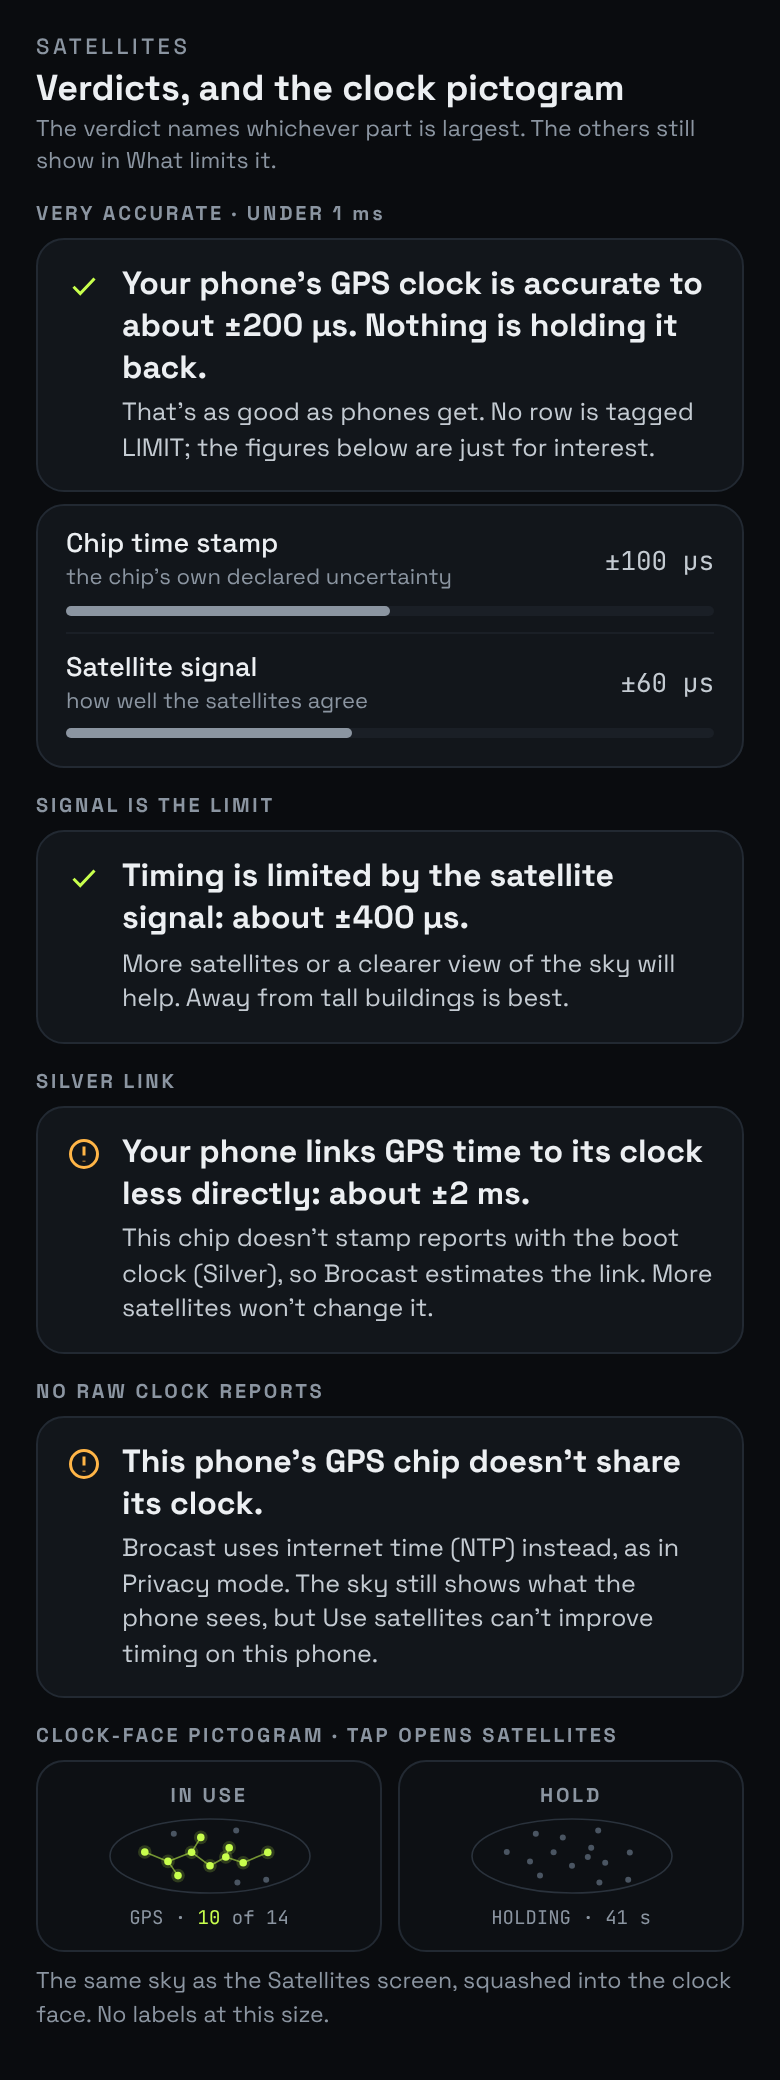
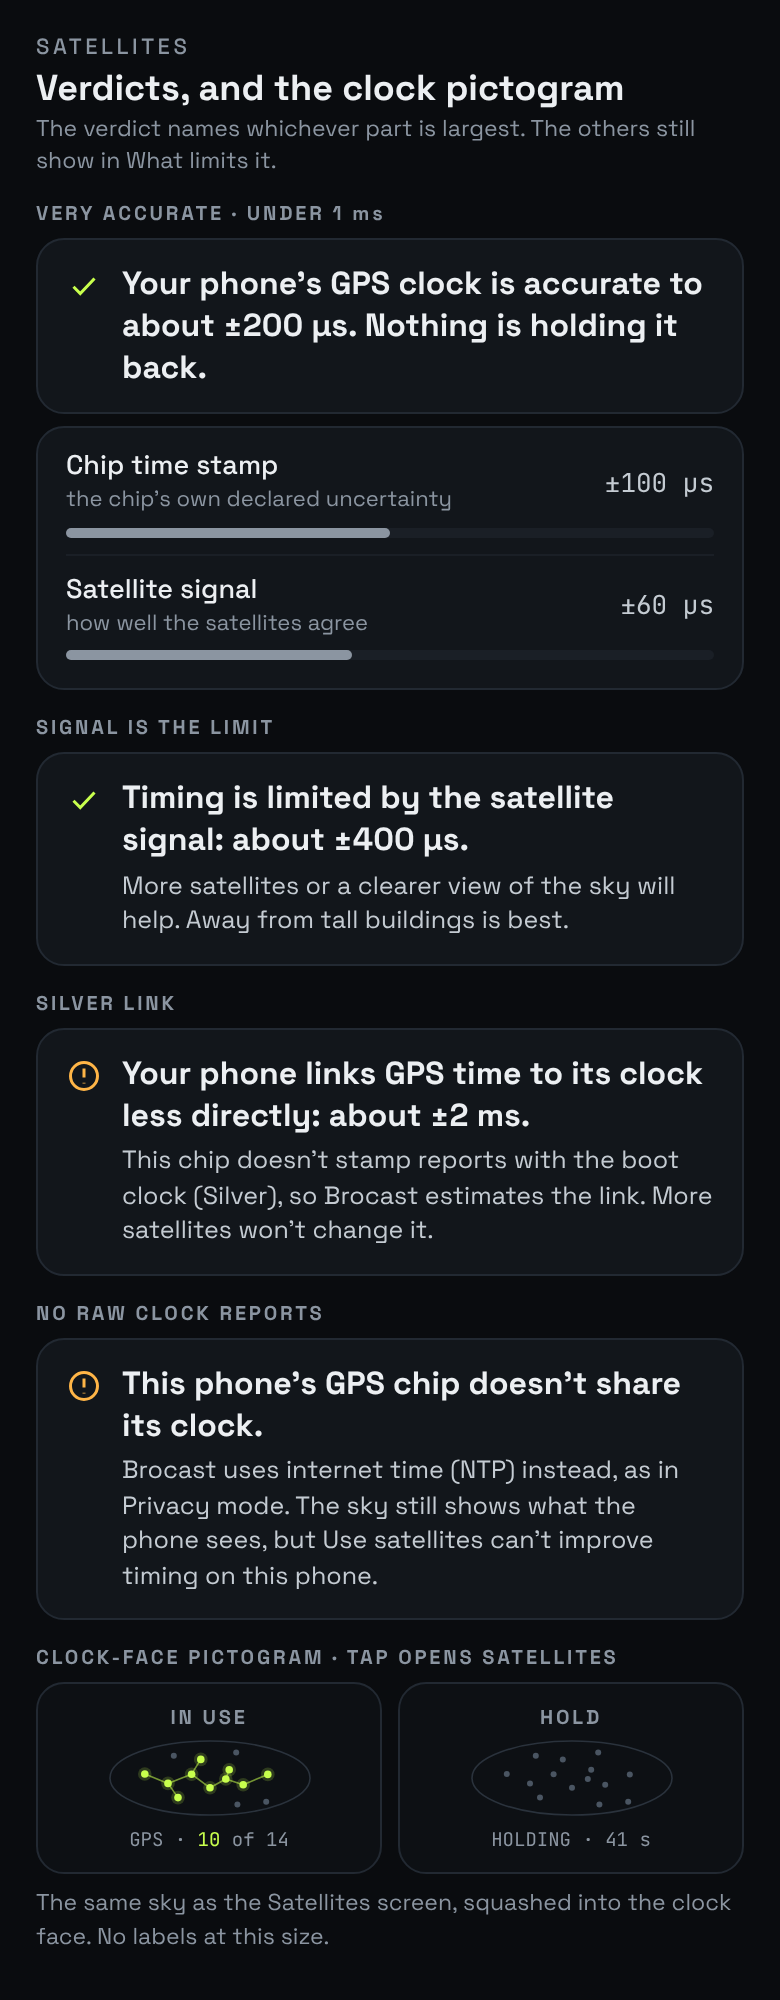
Design hand-off 50 from Claude Desktop: station name in the header, colour per set, news sources, boards caught up

Changed region(s): [[0.0308, 0.0, 0.9231, 0.961]]

diff --git a/design/ui-spec.md b/design/ui-spec.md
@@ -1,4 +1,4 @@
-# UI spec (hand-off 49)
+# UI spec (hand-off 50)
 
 Field names come from Claude Code's "Fields that exist today" table in `feedback.md`, as of 1 Nov 2026. If one has been renamed since, use the new name.
 
@@ -31,7 +31,7 @@ Field names come from Claude Code's "Fields that exist today" table in `feedback
 
 | Element | Shows | Source | States and taps | Status |
 |---|---|---|---|---|
-| Header | Left: your colour-fruit-animal name as the eyebrow (`AMBER FIG HERON`), then `● ≈ 1.2 M listening`: the mesh's estimate of everyone listening, always with `≈` (accurate to about ±3%; user, 7 Nov). Inside an event, the event name replaces your name. The whole block opens Swarm. Right: icon buttons (44 × 44) for Time signals, Calibration, Archive and Settings | Listener key nym; mesh listener estimate | Taps open Swarm | later (demo data now) |
+| Header | Left, three lines (9 Nov): your nym as the eyebrow (`AMBER FIG HERON`); the **station name** `Beach Sync Radio ▾` (15 px bold, opens Stations); `● ≈ 1.2 M listening` (opens Swarm; the mesh's estimate, always with `≈`, ±3%). Inside an event, the event name replaces your nym. Right: icon buttons (44 × 44, 6 px apart) for Time signals, Calibration, Archive and Settings. Board grew 30 px. | Listener key nym; station name from its announcement; mesh listener estimate | Station line opens Stations; count opens Swarm | later (demo data now) |
 | Now playing | The **artist photo** (52 px square, rounded 12, cropped at the photo's focus point) with **Kept** as a small bookmark in its corner (keeping locked on for the beta; the bookmark is its own 44 px target that **opens Kept**, user 7 Nov), then track title (20 px, bold, one line) and `artist · set` (13 px, `textSecondary`), then the **channel chip** on the right (see Channel control), then the **library line**: `LIBRARY`, a thin bar and `38 of 52 sets` | Artist entry; file record and cue list; channel setting; library download state | The photo opens Artist photo. The chip needs press and hold. With no photo: the artist's initials in accent on a dark tile. | later |
 | Brocast clock | A dial. Along the top of the bezel, curved: `TEDDINGTON · GREENWICH`, with an accent meridian tick at 12 o'clock between the two names. Inside: the zone (GMT or BST), HH:MM:SS large, the **time-source pictogram**, then local time. Updates once a second; no sub-second dial and no ns digits. | Flowtime | See the Times rule | now |
 | Seconds sweep | The outer accent arc fills once per flowtime **minute**, like a second hand | Seconds of the current minute | Steps once a second at Reduced level | now |
@@ -278,7 +278,7 @@ User, 8 Nov, after seeing h42 on phones. Supersedes the sizes, lines and chip pl
 
 | State | Verdict |
 |---|---|
-| Very accurate (total under 1 ms) | `Your phone's GPS clock is accurate to about ±200 µs. Nothing is holding it back.` Accent tick, not amber; **no row is tagged LIMIT** and the bars are neutral grey. Asked for by Claude Code (Galaxy A16, 2 Nov). |
+| Very accurate (total under 1 ms) | `Your phone's GPS clock is accurate to about ±200 µs. Nothing is holding it back.` as one paragraph, no second line (user, 8 Nov: shorter box). Accent tick, not amber; **no row is tagged LIMIT** and the bars are neutral grey. Asked for by Claude Code (Galaxy A16, 2 Nov). |
 | Chip is the limit | See Satellites (the Moto G32 case: ±10 ms with 9 to 15 satellites) |
 | Signal is the limit | `Timing is limited by the satellite signal: about ±400 µs.` More satellites or a clearer sky will help |
 | Silver link | `Your phone links GPS time to its clock less directly: about ±2 ms.` More satellites won't change it |
@@ -583,7 +583,7 @@ User, 7 Nov: a full-screen card filmed by a third phone (slow motion if it can) 
 
 Your 13:48 ASK; design §11a: every station is a public key, global, no local-only mode; a phone can follow any number.
 
-**Entry:** on Now playing the station name becomes its own header line (`Beach Sync Radio ▾`, 15 px bold) under your nym, and opens Stations. The listener count line under it still opens Swarm. (Proposal: the header gains one line.)
+**Entry:** on Now playing the station name becomes its own header line (`Beach Sync Radio ▾`, 15 px bold) under your nym, and opens Stations. The listener count line under it still opens Swarm. (Applied to Now playing in hand-off 50.)
 
 | Stations element | Shows |
 |---|---|
@@ -792,7 +792,10 @@ User, 8 Nov: a colour per station, like the lights on silent-disco headphones, s
 | What doesn't | Amber warnings and LIMIT, red errors, cyan news, grey off/receive-only, white text. Status never depends on the colour alone. |
 | Phone | A toast at the top of Now playing when it changes (dot, `Beach Sync Radio is Violet now`, `Set by the station · fades in over 2 s`). Stations list: a bar of each station's colour by its name; the one you're on says `LISTENING` in its colour. |
 | Delivery | A field in the station's signed announcement, spread over the mesh like the running order, kept for offline. Missing or unknown: Lime. No flashing on: change is instant. Minimal level: only the beat cells and clock ring use it. |
-| Later | A colour per set (the At the next set option is the start of it). No listener override: the point is that the crowd matches. |
+| Colour per set (9 Nov) | Upload page running order gets a **COLOUR** column: a filled dot + name for a set with its own colour, a ring in the station colour + `Station` otherwise. Click opens a popover `Colour for Golden Hour Set` (times): `Use the station colour (Lime)`, the 21 swatches, a preview line (`Overpass ● → ● every phone changes on beat 1 of the first bar`). Goes into the draft like a move (`Golden Hour Set: Lemon`); live on Publish. Screen `screens/admin-set-colour.png`. |
+| Set colour on phones | On **beat 1 of the new set's first bar**, as the sound reaches the ears, the accent fades to the set's colour over 2 s (No flashing: instant), so the crowd changes together. Set colour if it has one, else station colour; never changes the station colour. No toast. Coming up and Stations list show the set's colour dot; Kept tracks keep the colour of their set. |
+| Station-wide change | Dialog option `At the next set` now reads `Sets with their own colour (Colour column in the running order) keep it.` |
+| Later | No listener override: the point is that the crowd matches. |
 
 ## Swarm · listener details
 
@@ -808,8 +811,8 @@ User, 8 Nov: tapping a peer on Swarm shows more about them, including their coun
 | Sheet | Bottom sheet, half height, drag up for all, down or × to close; numbers update each second. |
 | Header | Avatar (nym colour, animal initial), **nym** 19 px bold, `✓ verified` (accent) once their signature over the name checks out, else `checking name…`; `key 3f9a·c2e1…`. Same nym as another listener: 4 hex digits after it. No nym (older app): key as the title, `no name · older app`. |
 | Numbers | Three tiles: To you (kB/s), From you (kB/s or —), Round trip (ms). |
-| Rows | **Country**: flag emoji + name, `From their internet address, looked up on this phone. They allow it.`; same Wi-Fi: your country; `Not shown` (they keep Show my country off); `Unknown` when relayed (relay's address, never guessed) or not in the table. **Connection**: Direct / Hole-punched / Same Wi-Fi / Relayed via <key>, with since time. **Shared**: MB to you · from you, today. **Holding**: how far ahead they can pass on blocks. **App**: version and engine. |
-| Footer | `Their internet address is never shown. Only the country, and only if they allow it.` and **Block** (red outline): they can't connect to you and you take nothing from them; you still hear the station; undo in Settings › Sharing › Blocked; no report sent. |
+| Rows | **Country**: flag emoji + name, `From their internet address, looked up on this phone. They allow it.`; same Wi-Fi: your country; `Not shown` (they keep Show my country off); `Unknown` when relayed (relay's address, never guessed) or not in the table. **Connection**: Direct / Hole-punched / Same Wi-Fi / Relayed via <key>, with since time. **Shared**: MB to you · from you, since they connected (as built). **Holding**: `62% of the library`, from their hello every 10 s; compared with yours (as built). **App**: version and engine. |
+| Footer | `Their internet address is never shown. Only the country, and only if they allow it.` and **Block** (red outline): they can't connect to you and you take nothing from them; you still hear the station; undo: Settings › Delivery › **Blocked listeners** row (`1 blocked · they can't connect to you`, **Unblock all**; no per-listener list yet); no report sent. |
 | They left | Header greyed, tiles `—` with `left 40 s ago`; sheet stays until closed; resumes if they return. |
 | List rows (proposal) | Lead with avatar + nym, key and path underneath, flag if allowed, to-you rate, ›. |
 | Data | Nym and its signature from their announcement; country from the bundled country table (only with their permission flag); link path, RTT, rates, holding from the engine. Never the IP address on screen. |
@@ -830,7 +833,8 @@ User, 8 Nov: press play/pause on the headphones while listening → music fades 
 | Card on Now playing | Under the track row, above the clock. Cyan (news colour) gradient, `NEWS · BBC WORLD SERVICE`, `23:00 bulletin`; waveform fills as it plays, `2:41 / 5:02`; `Press your headphone button to stop · music at 25%`; **Stop**. States: Getting (spinner, MB, `music stays up until it starts`), Playing, Ending (`Music coming back up · 2 s`), then it slides away. |
 | Can't | No internet: toast `No news without internet`, low tone, music unchanged. No answer in 10 s: `News isn't answering right now`. Newest older than 2 h 30 m: treated as not answering; otherwise plays with its age (`21:00 · 2 h old`). |
 | Settings › Listening › News on the headphone button | Row `On · BBC World Service · music to 25%` → page: switch (on), **News from** (Station's choice · default / NPR News Now / Your own feed: any podcast RSS), Music under the news slider, Fade down, Fade back up, **Get the next one ready on Wi-Fi** (on: fetch each new bulletin when published, ~3 MB/hour), Play 10 s preview, fade diagram, privacy line. |
-| Source | The station picks BBC World Service (default), NPR News Now or None on the upload page; the feed URL travels in the **station's signed announcement** (kept in server config, not in code or git). Listener's `News from`: Station's choice / NPR News Now / Your own feed. Station chose None: the row reads `This station has no news · pick one below`; the switch stays on and uses the listener's pick, else the button behaves as before. |
+| Sources (9 Nov) | **BBC World Service and NPR News Now are built into the app** as listener options, always shown, plus `Your own feed`. The station's choice (BBC by default, NPR or None) only pre-selects one and is marked `the station's choice`. Station chose None: `This station has no news · pick one below`. Station hasn't sent a choice yet: BBC. So "hasn't chosen yet" and "not set up on the station" no longer appear. The BBC URL (with its key) is baked in at build time from a gitignored file (see `comms/news-feeds.local.md`), never committed. |
+| Finding the latest | On a press (or the Wi-Fi check), read the RSS, take the item with the **newest `pubDate`** (not just the first in the list), download its `<enclosure url>`; remember its `guid`: same guid as the cached copy → play that. Newer than 2 h 30 m required. Under the options: `Latest: 10:00 bulletin · 5:02` / `Found in the BBC feed at 10:04 · ready on this phone`. |
 | Ads | Played as sent, never cut. |
 | Privacy | `Your phone fetches the bulletin straight from the news service, which sees your internet address.` |
 

diff --git a/design/handoff-50.md b/design/handoff-50.md
@@ -1,0 +1,13 @@
+# Hand-off 50 (9 Nov 2026): station name in the header, colour per set, news sources, boards caught up
+
+| Item | Change | Needs code? |
+|---|---|---|
+| `screens/now-playing` | Header: nym eyebrow, **`Beach Sync Radio ▾`** (opens Stations), `● ≈ 1.2 M listening` (opens Swarm). Icons 6 px apart. | yes |
+| `screens/admin-order`, **`admin-set-colour`** (new) | Running order **COLOUR** column; per-set popover with Use the station colour + 21 swatches; draft until Publish. | yes |
+| `screens/station-colour` | New section: colour change at the set boundary (beat 1, 2 s fade, crowd together); rules. | yes |
+| `screens/news-settings`, `news-states`, `news-now-playing` | **BBC World Service is its own option** (built into the app with NPR), station's choice only pre-selects; `Latest: 10:00 bulletin` line; Finding the latest rule (newest pubDate, enclosure, guid cache). | yes |
+| `screens/swarm-peer`, `swarm-peer-states`, `settings` | Matched to h46 as built: Holding = % of the library, Shared since they connected, Settings › Delivery › Blocked listeners · Unblock all. | small |
+| `screens/satellites-states` | Very accurate verdict: one paragraph, no second line (user's change). | — |
+
+User, 9 Nov: "I don't see BBC News in 'News on the button'… the app needs to find the latest bulletin from the RSS." Answers the h47/49 gaps: no "hasn't chosen yet" / "not set up" states needed (BBC is built in; station None has its own line). BBC URL with key: bake in from a gitignored file (`comms/news-feeds.local.md` has it), never commit.
+Set colour needs: per-set `color` in the running-order edition; accent switch scheduled on the set's first downbeat at ear time.
